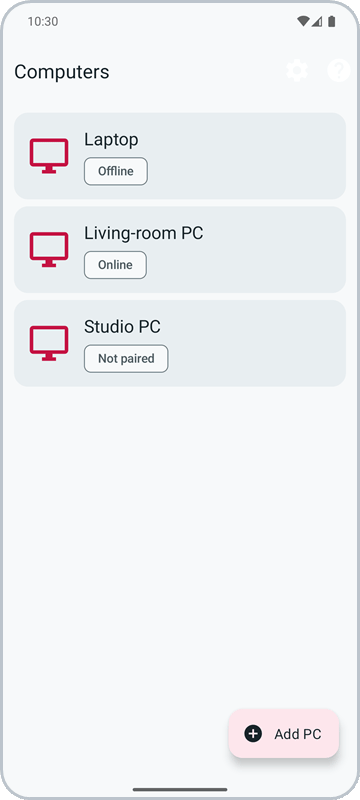
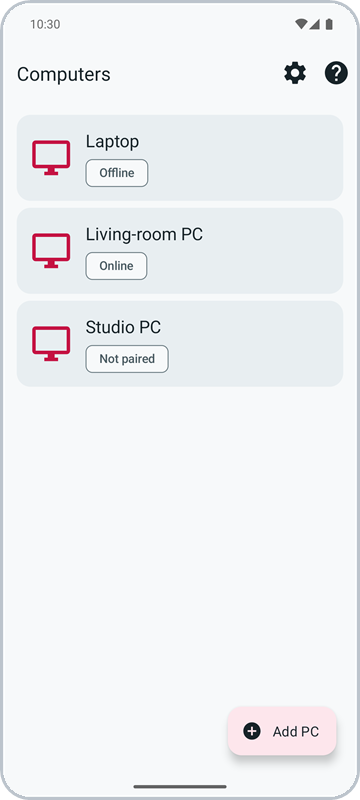
docs: README visuals reworked for legibility, copy tightened
- The screenshot row keeps four shots: Computers (settings and help icons now
  dark), library, a landscape stream with the compact one-line overlay (a crop
  of the real landscape capture, no wall of debug stats) and picture-in-picture
  over a plain dark home screen.
- demo.gif is cut from the 9:16 video and cropped to the phone column, shown
  360 px wide so the app stays readable at phone width.
- Copy: "React instantly with ultra-low latency streaming and decoding."; quick
  start step 3 says to enter the PIN shown on your phone, step 4 to allow
  permissions.

diff --git a/README.md b/README.md
@@ -5,7 +5,7 @@
 <p align="center">Stream your PC games and desktop to Android, with ultra-low latency and the controls you love.</p>
 
 <p align="center">
-  <img src="docs/assets/demo.gif" width="720" alt="Rubylight demo: open your game library, tap a game to start your stream, and keep the performance overlay in view.">
+  <img src="docs/assets/demo.gif" width="360" alt="Rubylight demo: open your game library, tap a game to start your stream, keep the performance overlay in view, and keep the stream floating in picture-in-picture.">
 </p>
 
 <p align="center"><a href="https://github.com/RamazanKara/rubylight-android/releases">Watch the full demo →</a></p>
@@ -17,13 +17,13 @@
 <p align="center">
   <img src="docs/assets/shots/pc-list.png" width="160" alt="Computers list showing online, offline and unpaired PCs">
   <img src="docs/assets/shots/library.png" width="160" alt="Game library with cover art and a running game">
-  <img src="docs/assets/shots/overlay.png" width="160" alt="Stream with the advanced performance overlay open">
-  <img src="docs/assets/shots/presets.png" width="160" alt="Stream settings with Balanced, Low latency, Best quality and Battery saver presets">
+  <img src="docs/assets/shots/stream.png" width="257" alt="Landscape stream with the compact one-line performance overlay">
+  <img src="docs/assets/shots/pip.png" width="160" alt="The stream floating over the home screen in a picture-in-picture window">
 </p>
 
 ## Features
 
-- **React instantly** with ultra-low latency streaming and low-latency decoding.
+- **React instantly** with ultra-low latency streaming and decoding.
 - **See every detail** with AV1, HEVC and H.264 video, plus HDR10.
 - **Keep motion fluid** with high refresh rates and VRR frame pacing.
 - **Sharpen your stream** with client-side FSR and Snapdragon GSR upscaling.
@@ -36,8 +36,8 @@
 
 1. **Set up your PC:** start the [Rubylight host](https://github.com/RamazanKara/Rubylight) and add your games.
 2. **Install on Android:** [download the APK](https://github.com/RamazanKara/rubylight-android/releases/latest) and open it.
-3. **Connect and pair:** select your PC on the same network and enter Android's PIN in the host's **Devices** page.
-4. **Start your stream:** enable the device's permissions, open your library and tap a game.
+3. **Connect and pair:** select your PC on the same network and enter the PIN shown on your phone in the host's **Devices** page.
+4. **Start your stream:** allow permissions, open your library and tap a game.
 
 ## Docs
 
